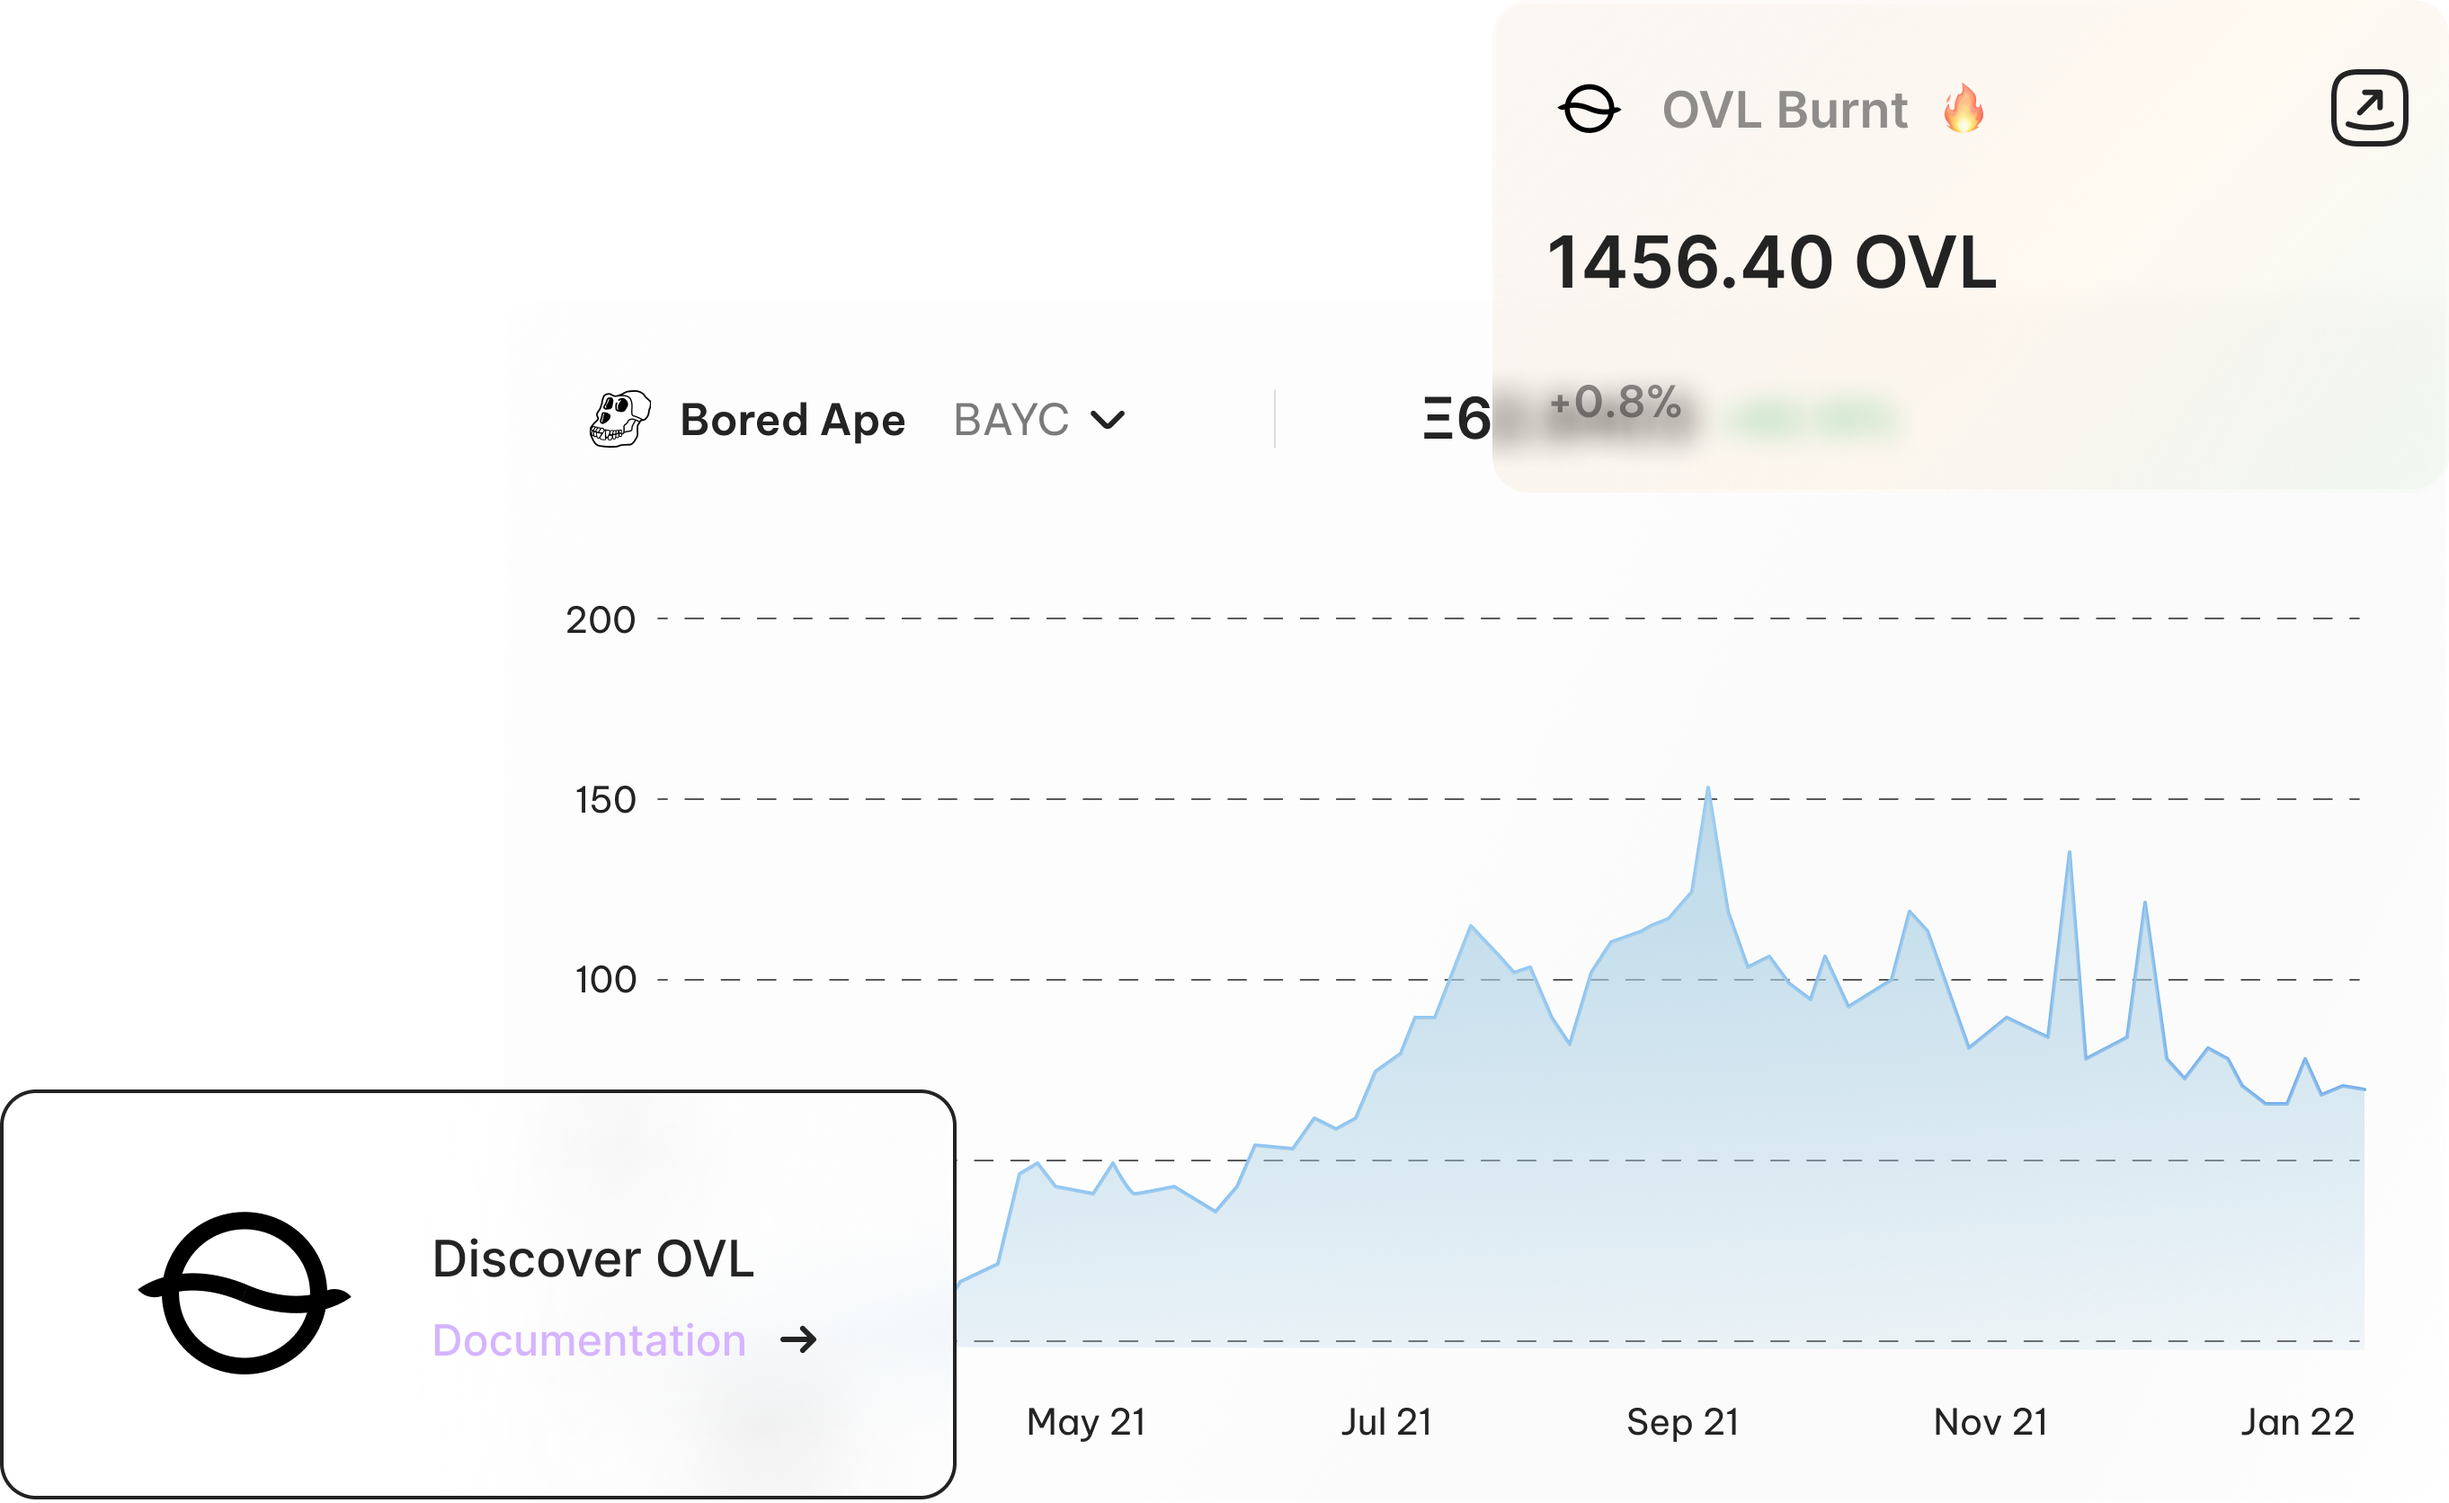
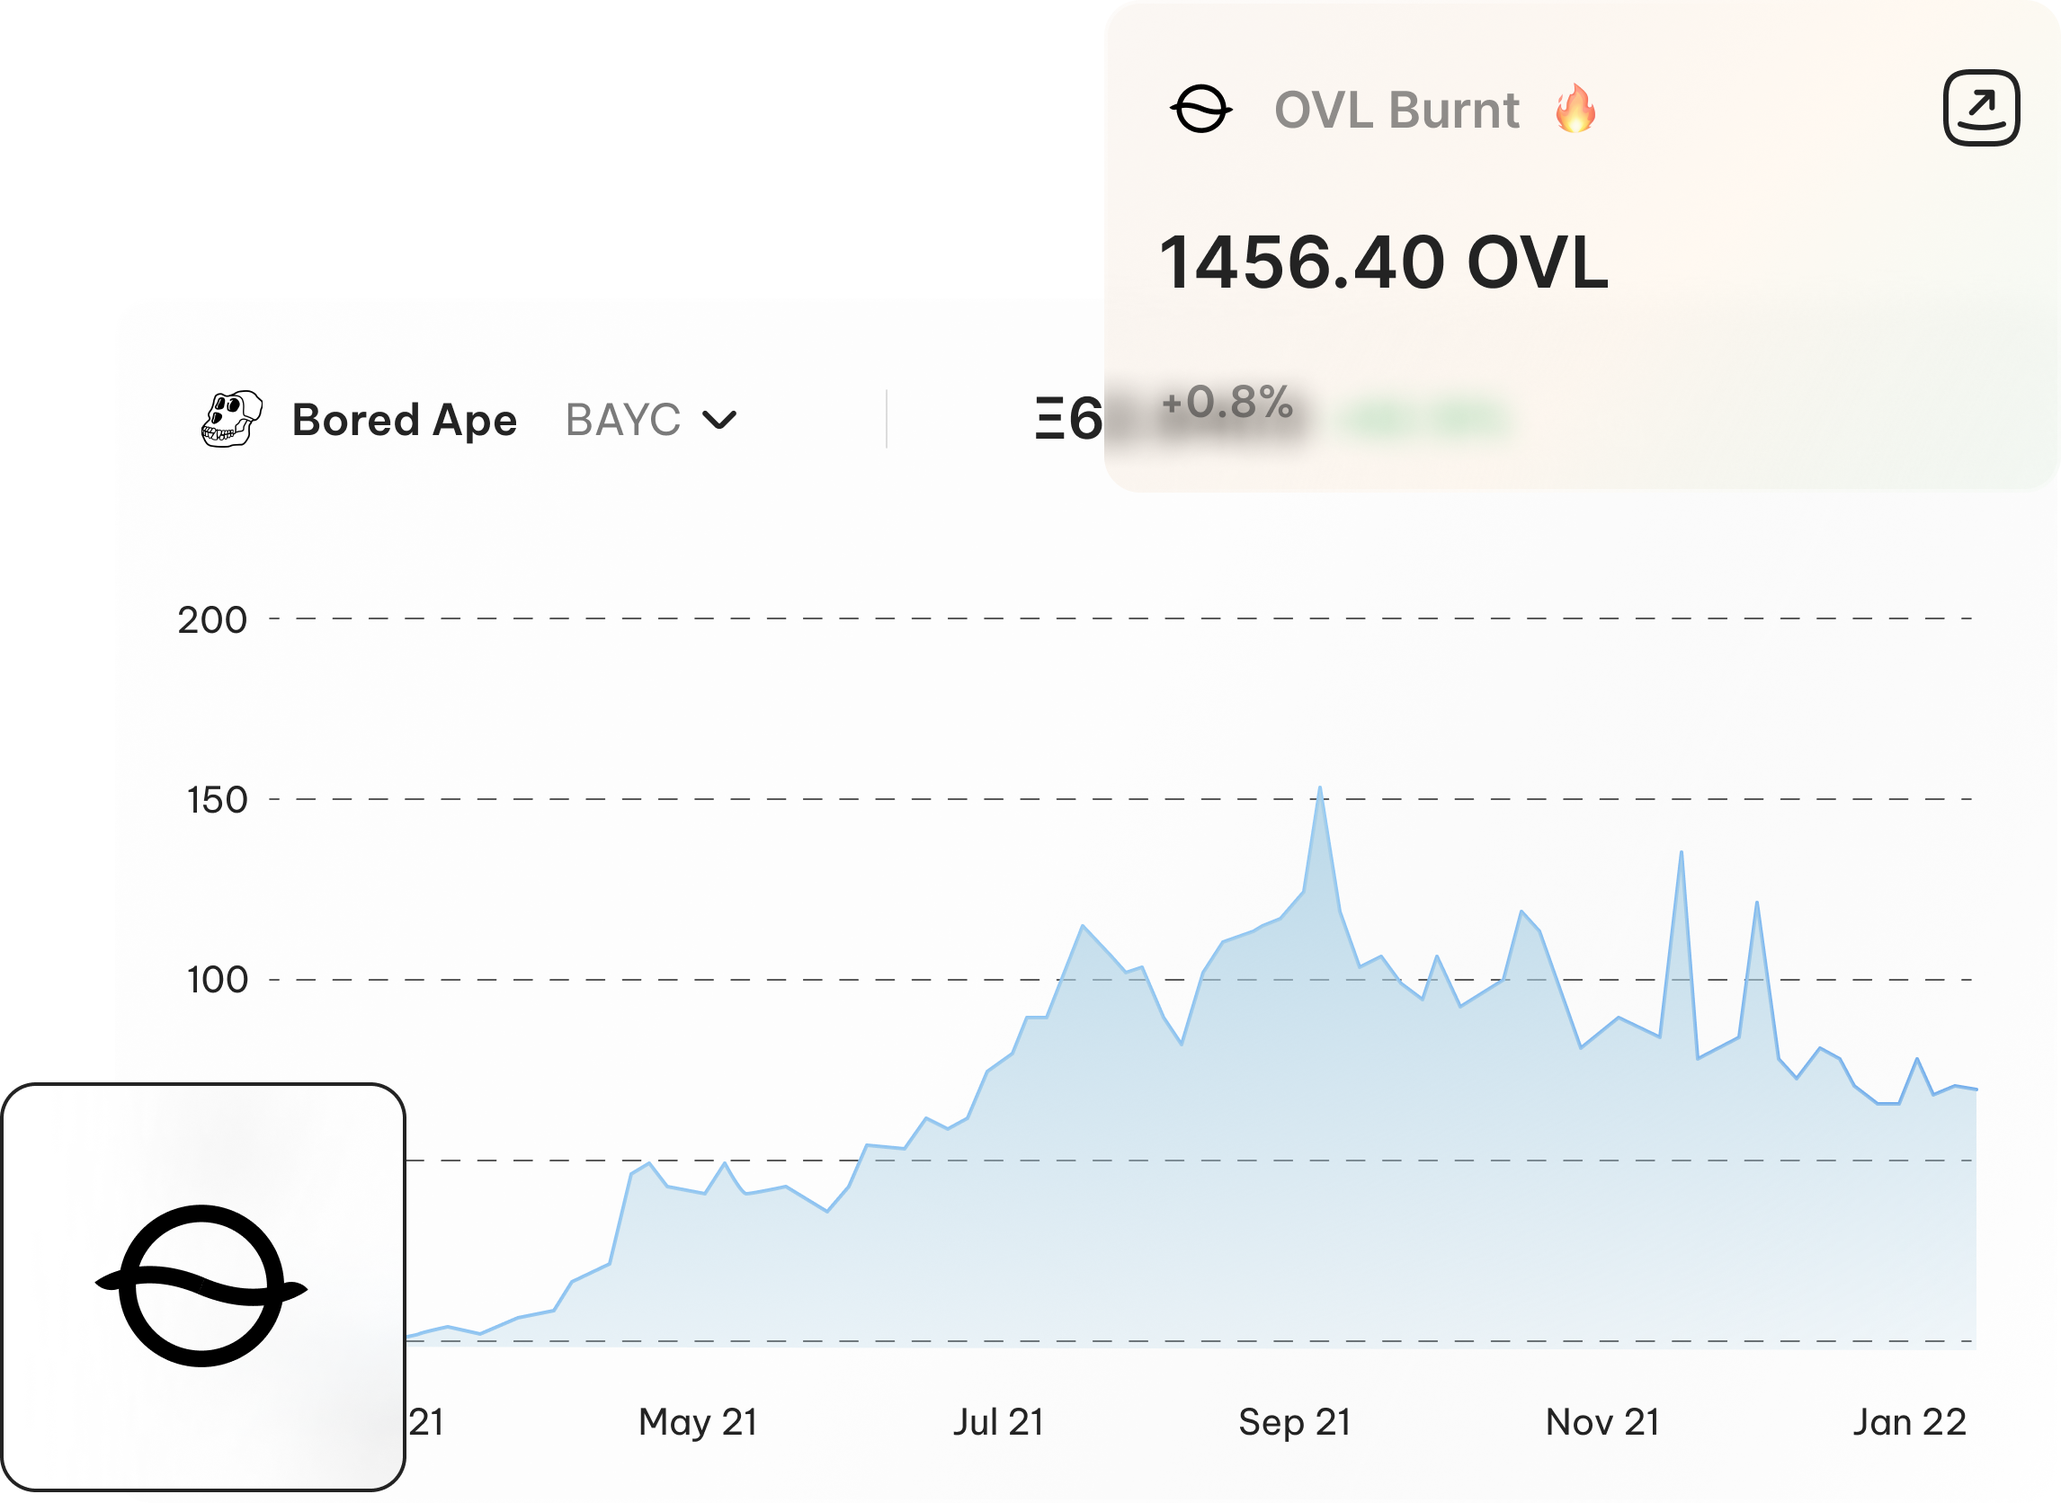
update value prop asset image

diff --git a/src/components/Contributing/Contributing.tsx b/src/components/Contributing/Contributing.tsx
@@ -21,7 +21,7 @@ const MainContainer = styled.div`
 const ContributingImageContainer = styled.div`
   display: flex;
   max-width: 250px;
-  margin: auto;
+  margin: auto auto 20px;
 
   img {
     width: 100%;

diff --git a/src/components/ValueProposition/ValueProposition.tsx b/src/components/ValueProposition/ValueProposition.tsx
@@ -69,7 +69,7 @@ const LightArrowButton = styled.button`
 `
 
 const ImageContainer = styled.img`
-  max-width: 650px;
+  max-width: 600px;
   margin: auto;
 `
 

diff --git a/src/components/Footer/Footer.tsx b/src/components/Footer/Footer.tsx
@@ -31,7 +31,7 @@ const BrandContainer = styled.div`
   margin-bottom: 20px;
 
   @media ${device.sm} {
-    width: 400px;
+    min-width: 400px;
   }
 `
 
